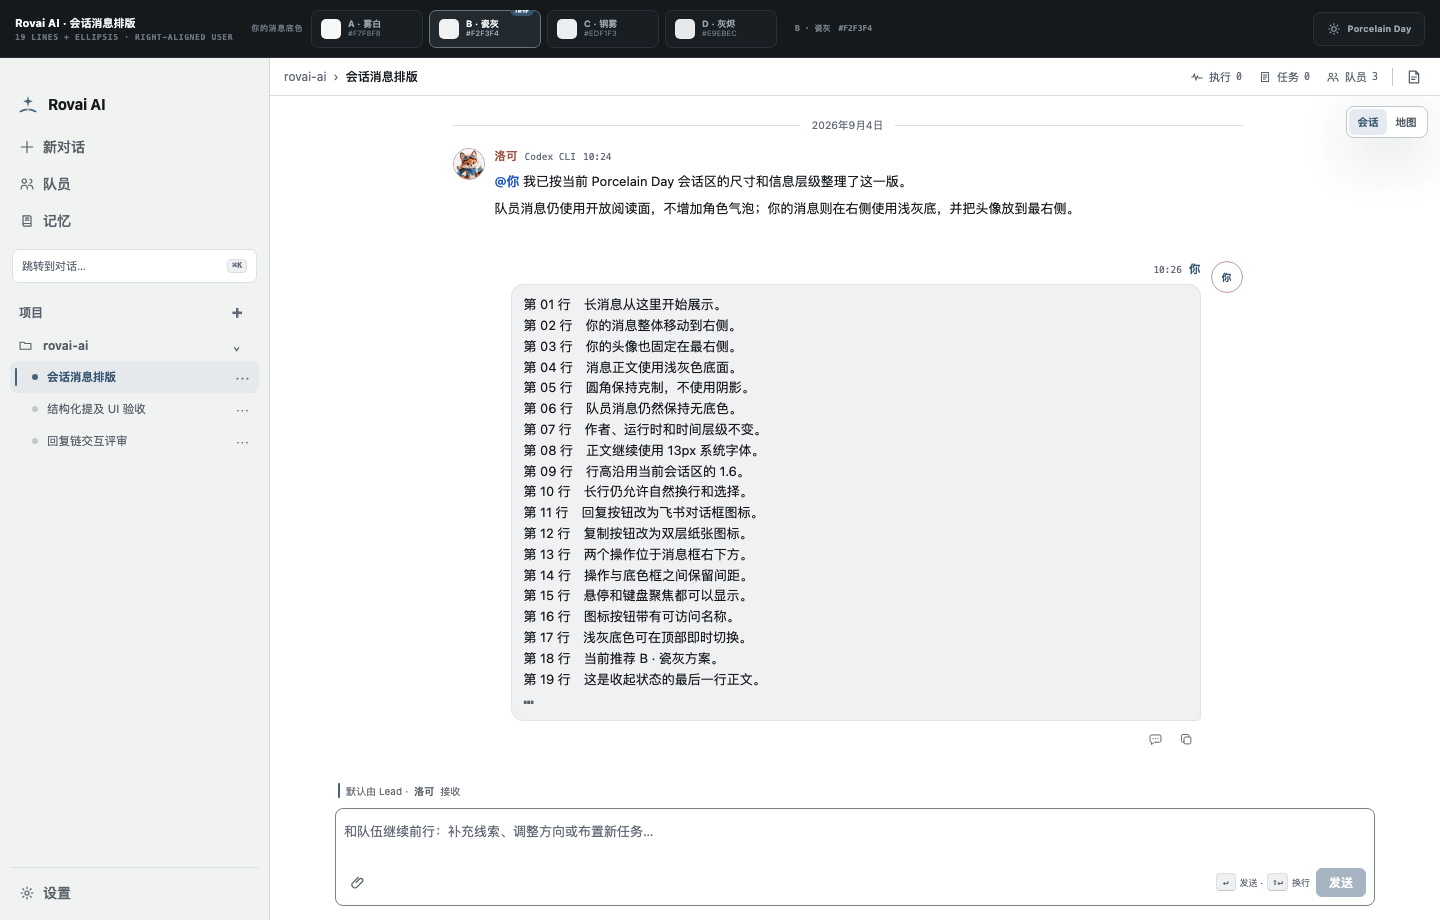
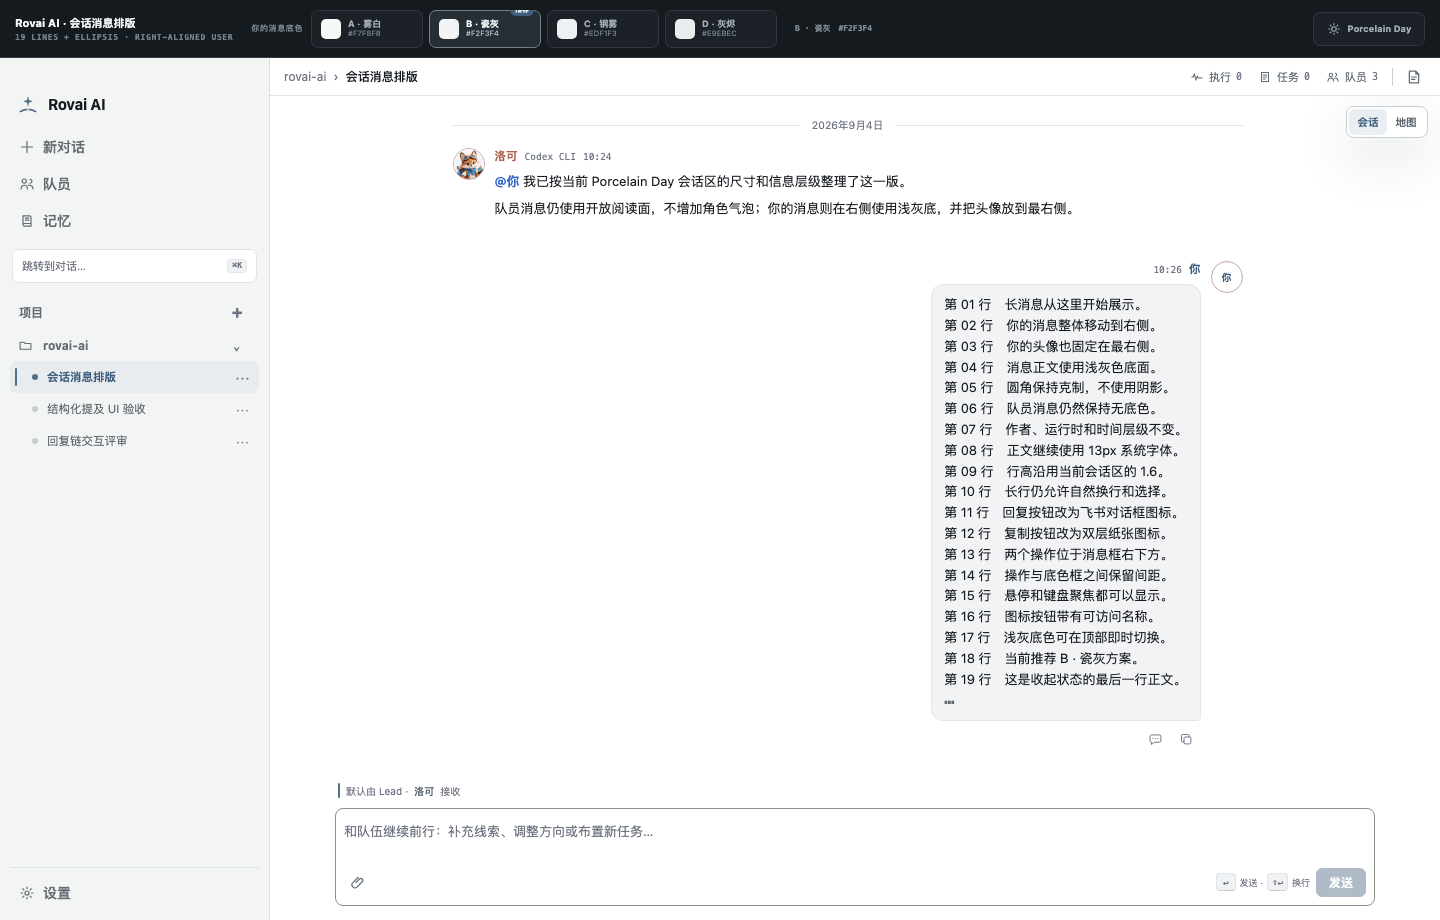
fix(desktop): shrink short user message bubbles

Changed region(s): [[0.3438, 0.3043, 0.5312, 0.7609], [0.6562, 0.3043, 0.8125, 0.7609]]

diff --git a/apps/desktop/src/renderer/src/theme-tokens.test.ts b/apps/desktop/src/renderer/src/theme-tokens.test.ts
@@ -368,7 +368,8 @@ describe('Porcelain Day + Steel Night theme tokens', () => {
     expect(css).toMatch(/\.conversation-bubble:is\(\.user, \.external_principal\)\s*\{[^}]*margin-left: auto[^}]*grid-template-columns: minmax\(0, 1fr\) 32px/)
     expect(css).toMatch(/\.conversation-bubble:is\(\.user, \.external_principal\) \.local-message-avatar\s*\{[^}]*grid-column: 2/)
     expect(css).toMatch(/\.conversation-bubble:is\(\.user, \.external_principal\) \.message-bubble\s*\{[^}]*border-radius: 12px 12px 4px 12px[^}]*background: var\(--conversation-user-message-surface\)/)
-    expect(css).toMatch(/\.conversation-bubble:is\(\.user, \.external_principal\) \.message-surface\s*\{[^}]*var\(--conversation-user-message-max-width\)[^}]*66\.667cqw/)
+    expect(css).toMatch(/\.conversation-bubble:is\(\.user, \.external_principal\) \.message-surface\s*\{[^}]*width: fit-content[^}]*max-width: min\([^}]*var\(--conversation-user-message-max-width\)[^}]*66\.667cqw[^}]*align-items: flex-end/)
+    expect(css).toMatch(/\.conversation-bubble:is\(\.user, \.external_principal\) \.message-bubble\s*\{[^}]*width: fit-content[^}]*max-width: 100%/)
     expect(css).toMatch(/\.message-body\s*\{[^}]*position: relative[^}]*display: flex/)
     expect(css).not.toMatch(/\.message-body\s*\{[^}]*padding-right:/)
     expect(css).toMatch(/\.message-surface\s*\{[^}]*position: relative[^}]*display: flex/)

diff --git a/apps/desktop/src/renderer/src/styles.css b/apps/desktop/src/renderer/src/styles.css
@@ -2825,14 +2825,16 @@ button.camp-world-map-live-caption { cursor: pointer; font: inherit; }
   background: transparent;
 }
 .conversation-bubble:is(.user, .external_principal) .message-surface {
-  width: min(
+  width: fit-content;
+  max-width: min(
     100%,
     var(--conversation-user-message-max-width),
     calc(66.667cqw - var(--conversation-user-message-width-offset))
   );
+  align-items: flex-end;
 }
 .conversation-bubble:is(.user, .external_principal) .message-bubble {
-  width: 100%;
+  width: fit-content;
   max-width: 100%;
   padding: 9px 12px 10px;
   border: 1px solid var(--conversation-user-message-line);
@@ -4230,7 +4232,8 @@ button.attachment-open:disabled { cursor: wait; opacity: .76; }
 .conversation-bubble:is(.user, .agent):has(.message-attachments) { width: 100%; max-width: none; }
 .conversation-bubble:is(.user, .agent):has(.message-attachments) .message-body { width: 100%; max-width: none; }
 .conversation-bubble:is(.user, .external_principal):has(.message-attachments) .message-bubble {
-  width: min(
+  width: fit-content;
+  max-width: min(
     100%,
     var(--conversation-user-message-max-width),
     calc(66.667cqw - var(--conversation-user-message-width-offset))

diff --git a/docs/prototypes/conversation-user-message-layout/index.html b/docs/prototypes/conversation-user-message-layout/index.html
@@ -395,7 +395,8 @@
     .message-meta span, .message-meta time { color: var(--faint); font: 500 9.5px/1.3 ui-monospace, SFMono-Regular, Menlo, monospace; }
     .message-content { position: relative; width: fit-content; max-width: 100%; min-width: 0; }
     .message.user .message-content {
-      width: min(100%, var(--user-message-max-width), calc(66.667cqw - var(--user-message-width-offset)));
+      width: fit-content;
+      max-width: min(100%, var(--user-message-max-width), calc(66.667cqw - var(--user-message-width-offset)));
     }
     .agent-copy { max-width: 76ch; color: var(--ink); font-size: 13px; line-height: 1.6; overflow-wrap: anywhere; }
     .agent-copy p { margin: 0 0 7px; }
@@ -403,7 +404,7 @@
     .mention { color: #2f61c8; font-weight: 650; }
     :root[data-theme="night"] .mention { color: #9cc7e2; }
     .user-bubble {
-      width: 100%;
+      width: fit-content;
       max-width: 100%;
       padding: 9px 12px 10px;
       border: 1px solid var(--user-message-line);

diff --git a/docs/ui/components/conversation-workspace.md b/docs/ui/components/conversation-workspace.md
@@ -181,8 +181,9 @@ SVG 图标，位于正文右下方且在用户消息底色之外；按钮具有 
 文件代码路径保留等宽样式，原始消息及整条消息复制内容不改写；Agent 正文使用清洗后的 GFM；Tool 输出使用结构化证据组件。
 
 当前用户与通过 Owner 校验的外部 Principal 消息整体右对齐，头像位于消息右侧，作者与时间也在右侧收口；
-正文使用 `--conversation-user-message-surface` / `--conversation-user-message-line` 的浅灰圆角底面，最大宽度约为
-同列 Composer 的三分之二。宽屏仍受可读正文上限约束，紧凑会话列按 Composer 实际内边距等比例收窄。
+正文使用 `--conversation-user-message-surface` / `--conversation-user-message-line` 的浅灰圆角底面。底面按正文
+固有宽度自然收窄，只把同列 Composer 的约三分之二作为最大宽度；短消息不得被拉伸到该上限。宽屏仍受
+可读正文上限约束，紧凑会话列按 Composer 实际内边距等比例收窄。
 Agent 消息继续左对齐并保持透明开放阅读面，不添加身份色气泡或整条消息 hover 底色。
 
 当前用户消息正文超过 20 个显式文本行时，默认只挂载前 19 行，第 20 行显示左对齐省略号；点击省略号
@@ -576,7 +577,7 @@ Header、Task 卡、时间线和 Composer 不增加 Run-local 入口。`recovery
 [文件预览](file-preview.md#结构与布局)拥有，不新增 Sidecar 或移动端导航模式。
 
 - 时间线与 Composer 左右边距缩至 12px。Task 与 Files Changed 取消 42px 额外左缩进，使用当前正文轨道的
-  可用宽度。当前用户消息底面继续约为 Composer 可用宽度的三分之二，头像留在右侧；普通消息自然换行，
+  可用宽度。当前用户消息底面继续按内容收窄，最大不超过 Composer 可用宽度的约三分之二，头像留在右侧；普通消息自然换行，
   Markdown 表格与代码块使用自己的横向滚动。
 - Task 状态图标缩至 26px，隐藏右侧 Chevron；标题自然换行，负责人、验收条件和更新时间继续 wrap。
   状态说明标题与正文改为上下排列，任务语义不删减。

diff --git a/docs/development/ui-acceptance.md b/docs/development/ui-acceptance.md
@@ -353,7 +353,7 @@ pnpm accept:runtime-activity-ui
 footer 保持透明、零圆角，短转交折线使用 1px Porcelain/Steel 结构线，且 footer 边界与最后一个
 正文内容元素的垂直间距不超过 4px；验收必须同时证明回复/复制使用带可访问名称的线性 SVG，位于正文
 右下方的独立操作行，键盘聚焦后可见且不覆盖收件人。当前用户消息还须证明右对齐、头像位于右侧、
-浅灰底面约为 Composer 的三分之二、整条消息 hover 不增加底色，以及超过 20 行时只显示前 19 行与
+浅灰底面按短消息内容自然收窄且最大不超过 Composer 的约三分之二、整条消息 hover 不增加底色，以及超过 20 行时只显示前 19 行与
 第 20 行省略号；复制仍为完整原文。不能只测包含隐藏控件的外层 surface。验收还必须切换到 1040×700，证明 document、timeline
 和 footer 无横向溢出且 footer 留在时间线可视区内；2K 场景还须证明 Composer 扩展不改变 footer
 阅读宽度或复制按钮定位。Run stage 也不得重新显示这些 Delivery 状态标签；
